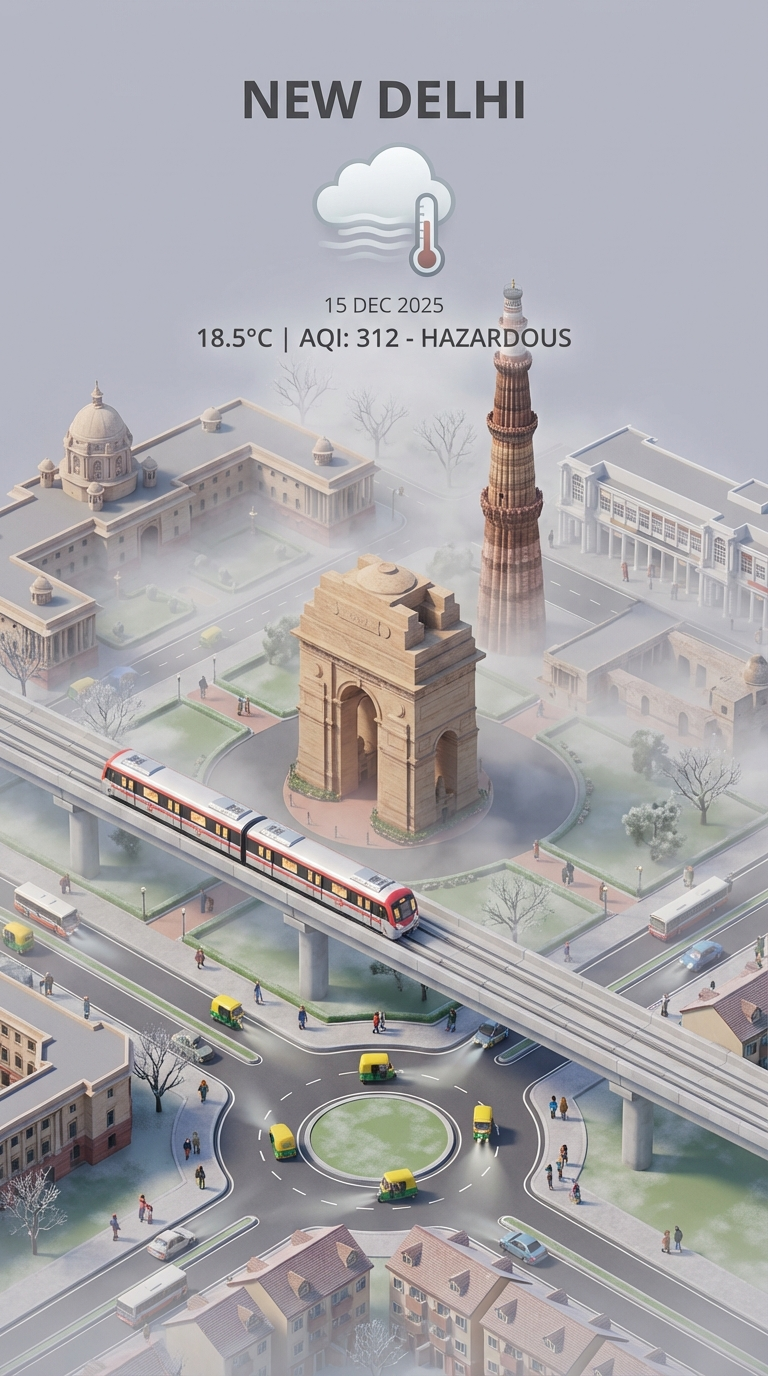
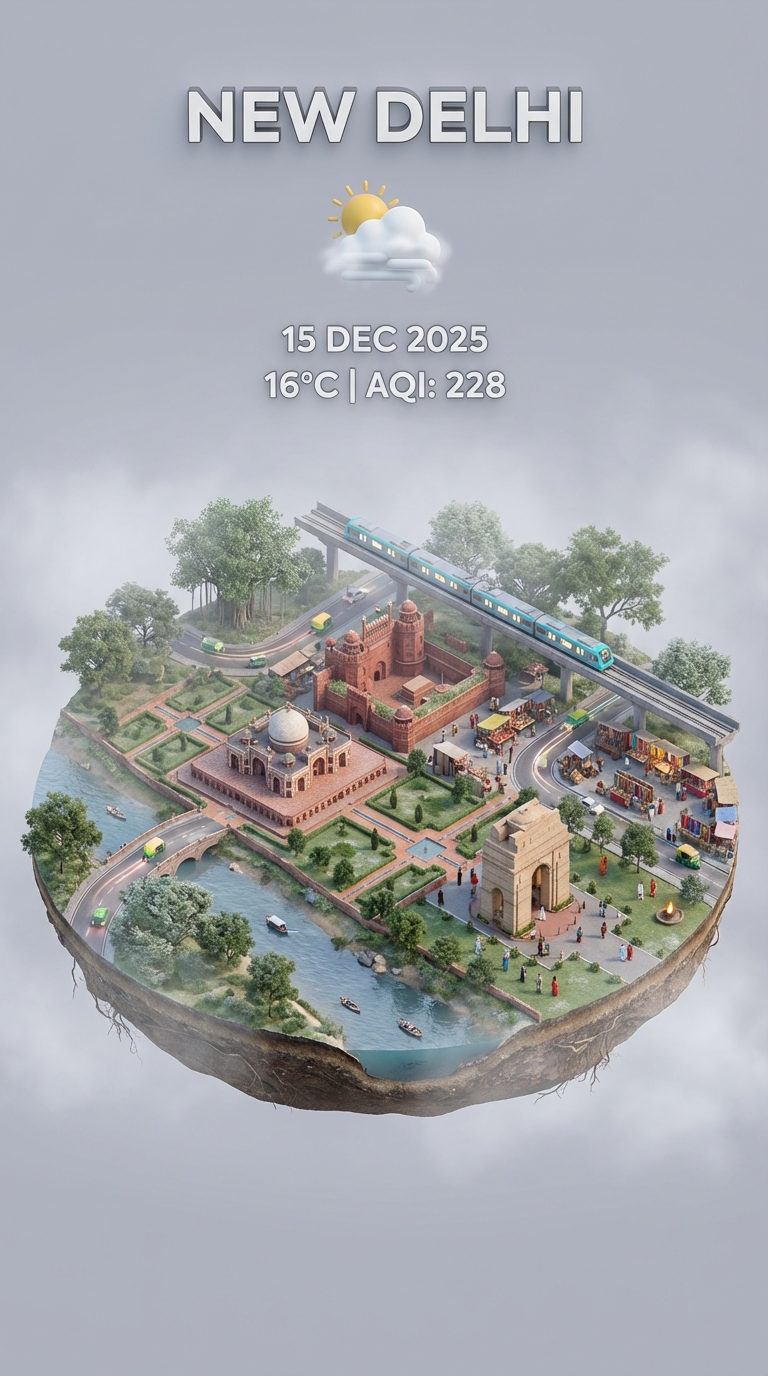
aqi prompt updated

diff --git a/prompts/aqi.py b/prompts/aqi.py
@@ -204,8 +204,8 @@ def generate_nano_banana_art(data):
     - If London -> Double decker red bus + Black cab.
     - If Venice -> Gondola/Vaporetto.
     - If a generic city -> City buses + cars.
-    
-    Output a single short sentence describing exactly what energetic miniature vehicles should be added to the roads/water. 
+
+    Output a single short sentence describing exactly what energetic miniature vehicles should be added to the roads/water.
     Example output: "Render a cute miniature cyan-line metro train crossing a viaduct and green-and-yellow auto rickshaws on the roads."
     """
     try:
@@ -218,13 +218,52 @@ def generate_nano_banana_art(data):
     except:
         transit_instruction = "Include moving city traffic like buses and cars."
 
-    prompt = f"""
-    Present a clear, 45° top-down view of a vertical (9:16) isometric miniature 3D cartoon scene of {args['city']}, highlighting iconic landmarks centered in the composition to showcase precise and delicate modeling.
+    # --- REGIONAL BEAUTY & CULTURE CHECK ---
+    # Ask Gemini about the unique beauty, culture, and landscape of the region
+    print(f"🏔 Discovering the beauty of {args['city']}...")
+    beauty_prompt = f"""
+    I am generating a 3D isometric miniature art of {args['city']}.
+    Describe in 2-3 sentences the UNIQUE visual beauty of this place that MUST be shown:
+    - What natural landscape defines this region? (hills, valleys, rivers, forests, beaches, etc.)
+    - What traditional/cultural architecture or structures are iconic? (traditional houses, temples, monuments)
+    - What cultural elements make it visually distinct? (tribal art, festivals, traditional dress patterns)
 
-    CRITICAL LANDMARK DETAILS:
-    - Center the most famous landmarks of {args['city']}.
+    Examples:
+    - Nagaland -> "Lush green rolling hills, traditional Naga morung (community houses) with carved wooden pillars, hornbill motifs, bamboo structures, and vibrant tribal shawl patterns in red and black."
+    - Kerala -> "Palm-fringed backwaters, traditional snake boats, red-tiled sloped roof houses, and coconut groves."
+    - Rajasthan -> "Golden sand dunes, ornate havelis with jharokha windows, colorful turbans, and majestic forts."
+
+    Output a vivid visual description focusing on what makes {args['city']} and its region UNIQUELY beautiful.
+    """
+    try:
+        beauty_response = client.models.generate_content(
+            model='gemini-2.0-flash-exp',
+            contents=beauty_prompt
+        )
+        regional_beauty = beauty_response.text.strip()
+        print(f"🎨 Regional beauty: {regional_beauty}")
+    except:
+        regional_beauty = ""
+
+    prompt = f"""
+    Create a FLOATING MINIATURE DIORAMA of {args['city']} in isometric 3D style (45° top-down view, 9:16 vertical).
+
+    CRITICAL STYLE REQUIREMENTS:
+    - The scene MUST be a FLOATING ISLAND/DIORAMA with clean edges, hovering against a soft pastel blue/grey background.
+    - Think of it as a tiny detailed 3D model on a floating platform - NOT a flat landscape photograph.
+    - The diorama should have visible depth with layered terrain (foreground, middle, background all on the floating base).
+
+    REGIONAL BEAUTY & CULTURE (MUST BE THE HERO):
+    {regional_beauty}
+    - If this is a hill region: Show DRAMATIC ROLLING GREEN HILLS as the main visual, with buildings nestled among them.
+    - If this has traditional architecture: Make it PROMINENT and CENTERED, not tiny background elements.
+    - The natural landscape (hills, rivers, forests) should be sculpted INTO the floating diorama base.
+
+    LANDMARK & SCENE DETAILS:
+    - Center the most iconic visual element (whether landmark OR landscape) prominently.
+    - Include traditional architecture and cultural structures specific to this area as key features.
     - **TRANSIT & LIFE**: {transit_instruction}
-    - Surroundings: Populate the scene with tiny people and trees to make it feel alive.
+    - Tiny people in traditional local attire, native trees and vegetation.
 
     The scene features soft, refined textures with realistic PBR materials and gentle, lifelike lighting and shadow effects. 
     

diff --git a/prompts/origami.md b/prompts/origami.md
@@ -1,0 +1,9 @@
+A hyper-detailed origami sculpture of [CHARACTER], meticulously hand-folded from premium washi paper with visible fiber texture and subtle color gradients. Crisp geometric folds with razor-sharp creases capture the character's iconic silhouette and signature features in an elegant low-poly interpretation. The face must include clearly defined eyes, expressive and recognizable, rendered as folded paper shapes or painted details on the paper surface.
+
+The sculpture displays expert craftsmanship with complex pleating techniques, precise valley and mountain folds, and layered paper depth. Subtle wear marks and natural paper imperfections add authenticity.
+
+Studio photography setup: placed on a seamless matte white surface, illuminated by soft diffused key light from above-left with gentle fill light. Delicate shadows define the dimensional form. Shallow depth of field with tack-sharp focus on the subject, slight bokeh on edges.
+
+Style: minimalist Japanese paper art aesthetic, museum-quality collectible piece, photorealistic macro photography. Shot with 85mm lens, f/2.8 aperture.
+
+1080x1080 square format, 8K resolution quality
